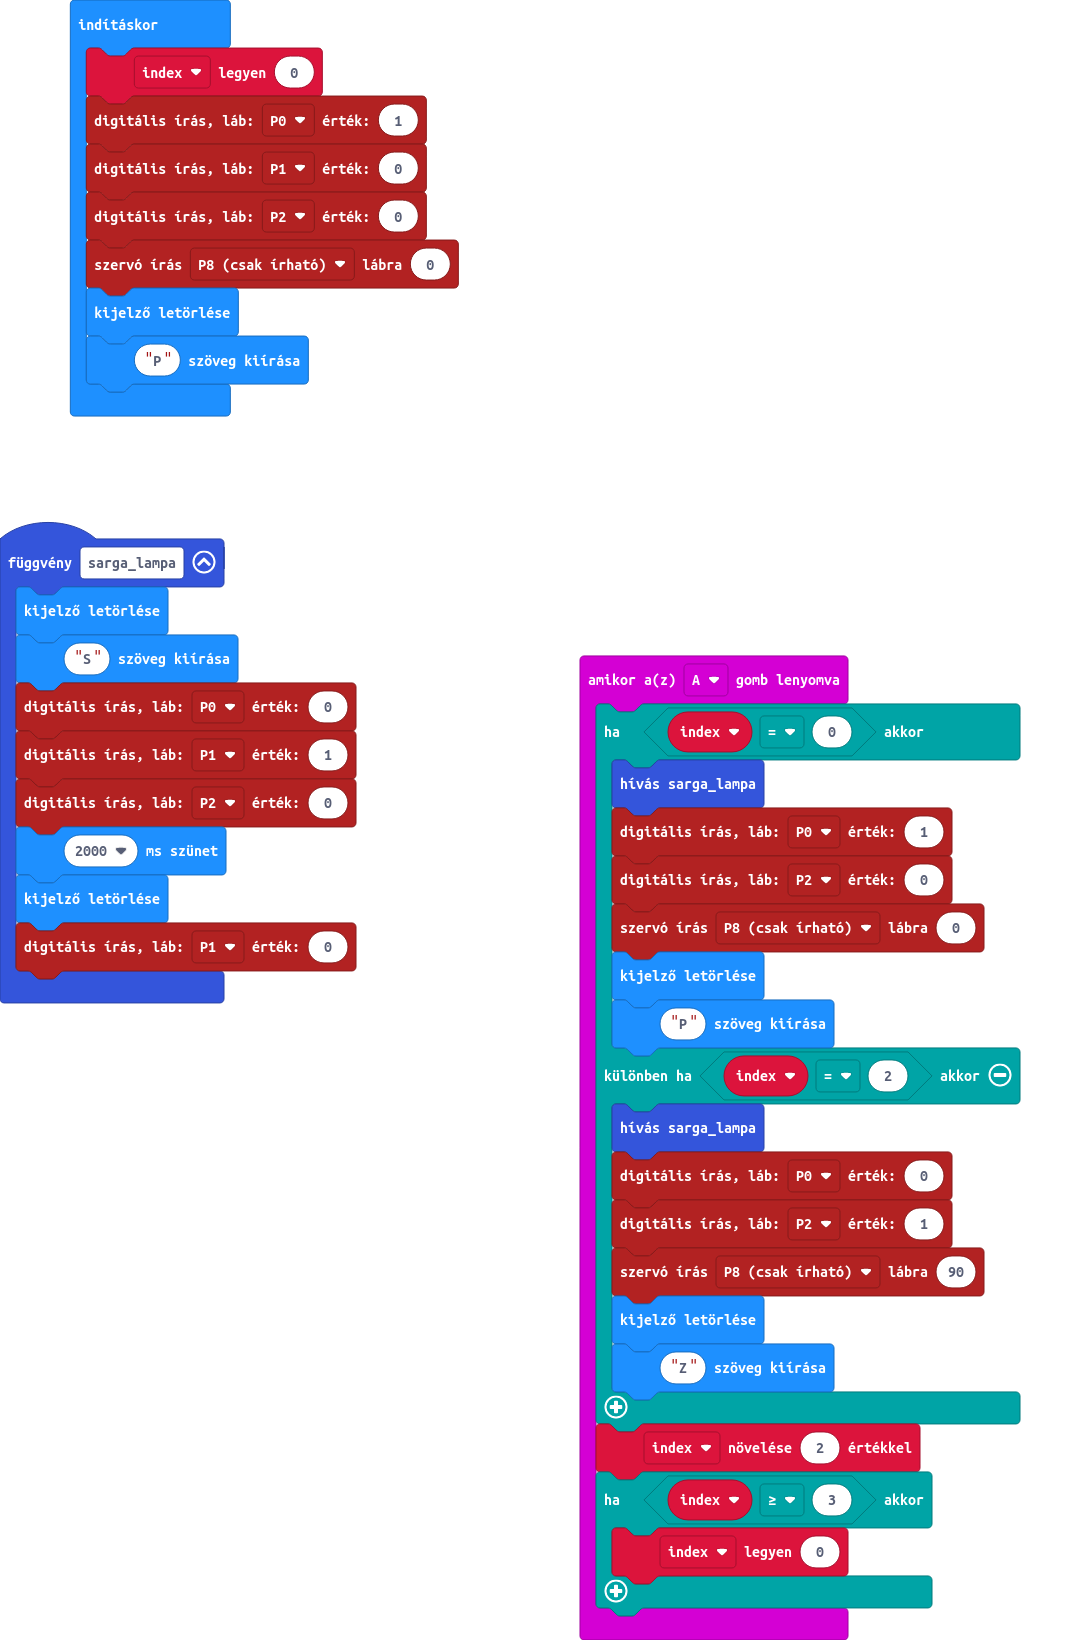
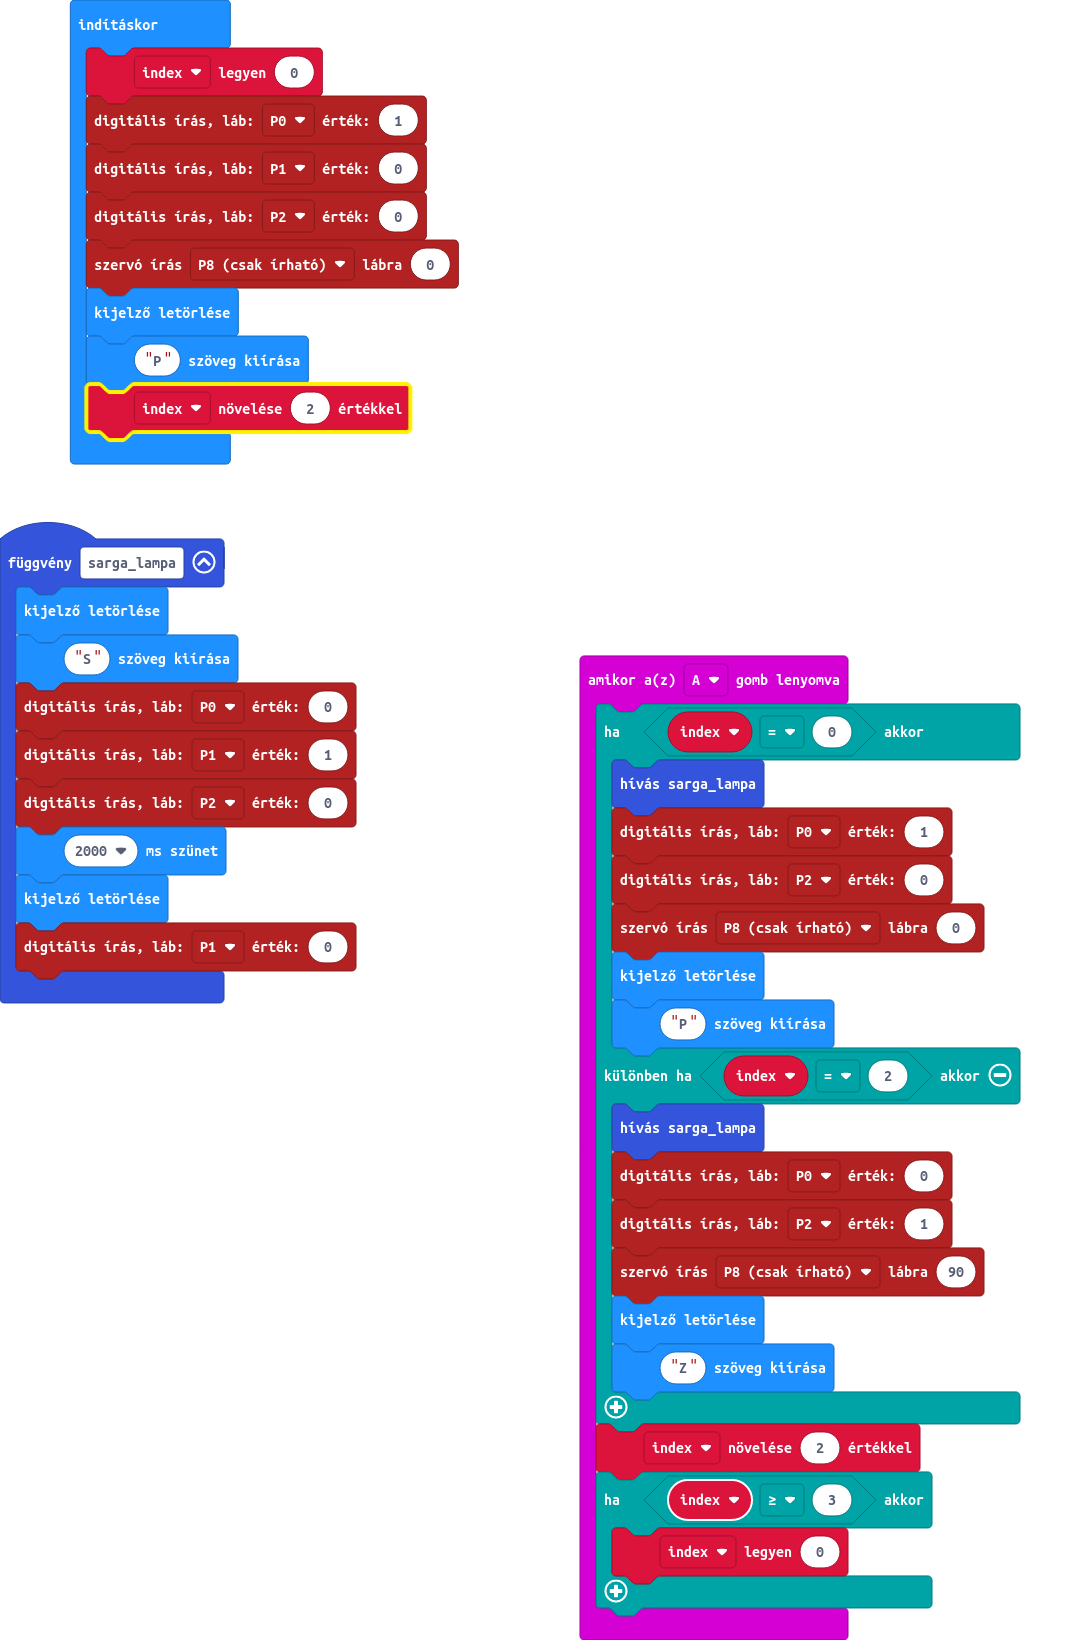
hibás sorrend

Changed region(s): [[0.0625, 0.2177, 0.375, 0.311], [0.6562, 0.9018, 0.6875, 0.9329]]

diff --git a/main.ts b/main.ts
@@ -37,3 +37,4 @@ pins.digitalWritePin(DigitalPin.P2, 0)
 pins.servoWritePin(AnalogPin.P8, 0)
 basic.clearScreen()
 basic.showString("P")
+index += 2
